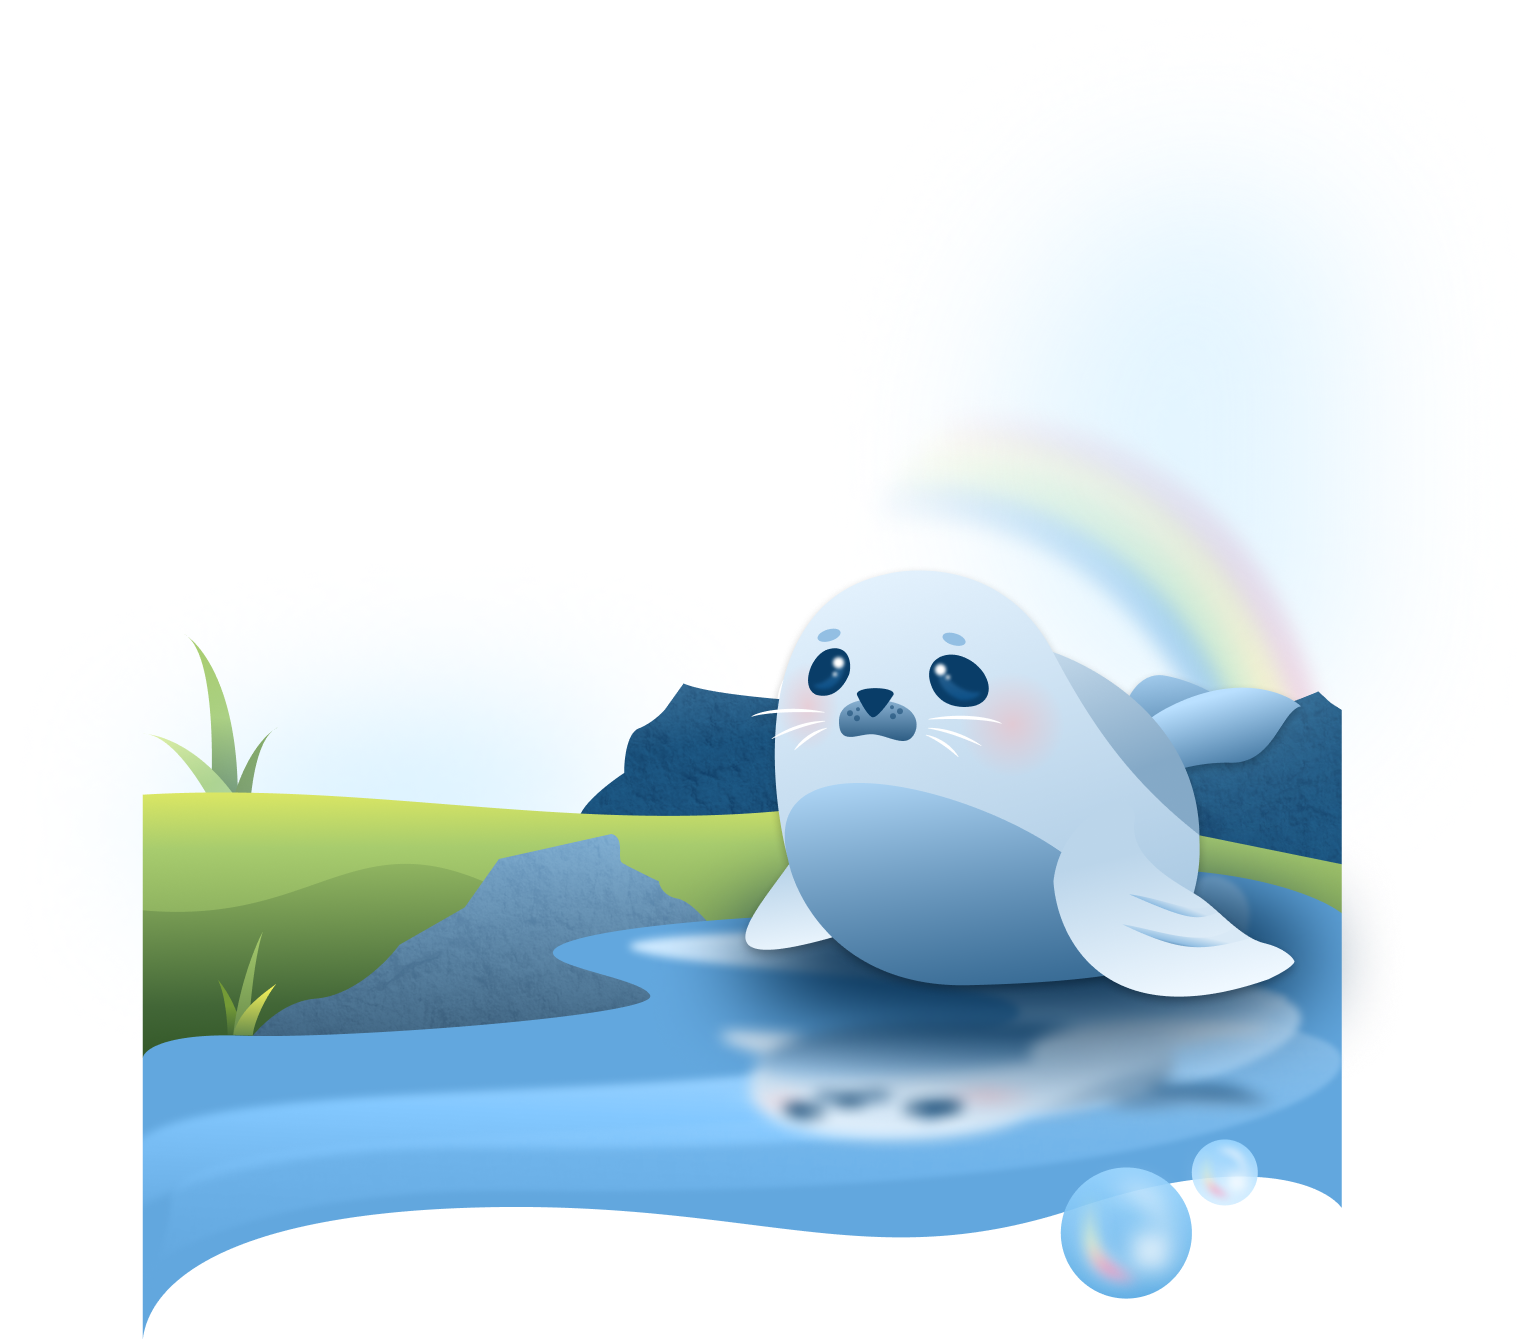
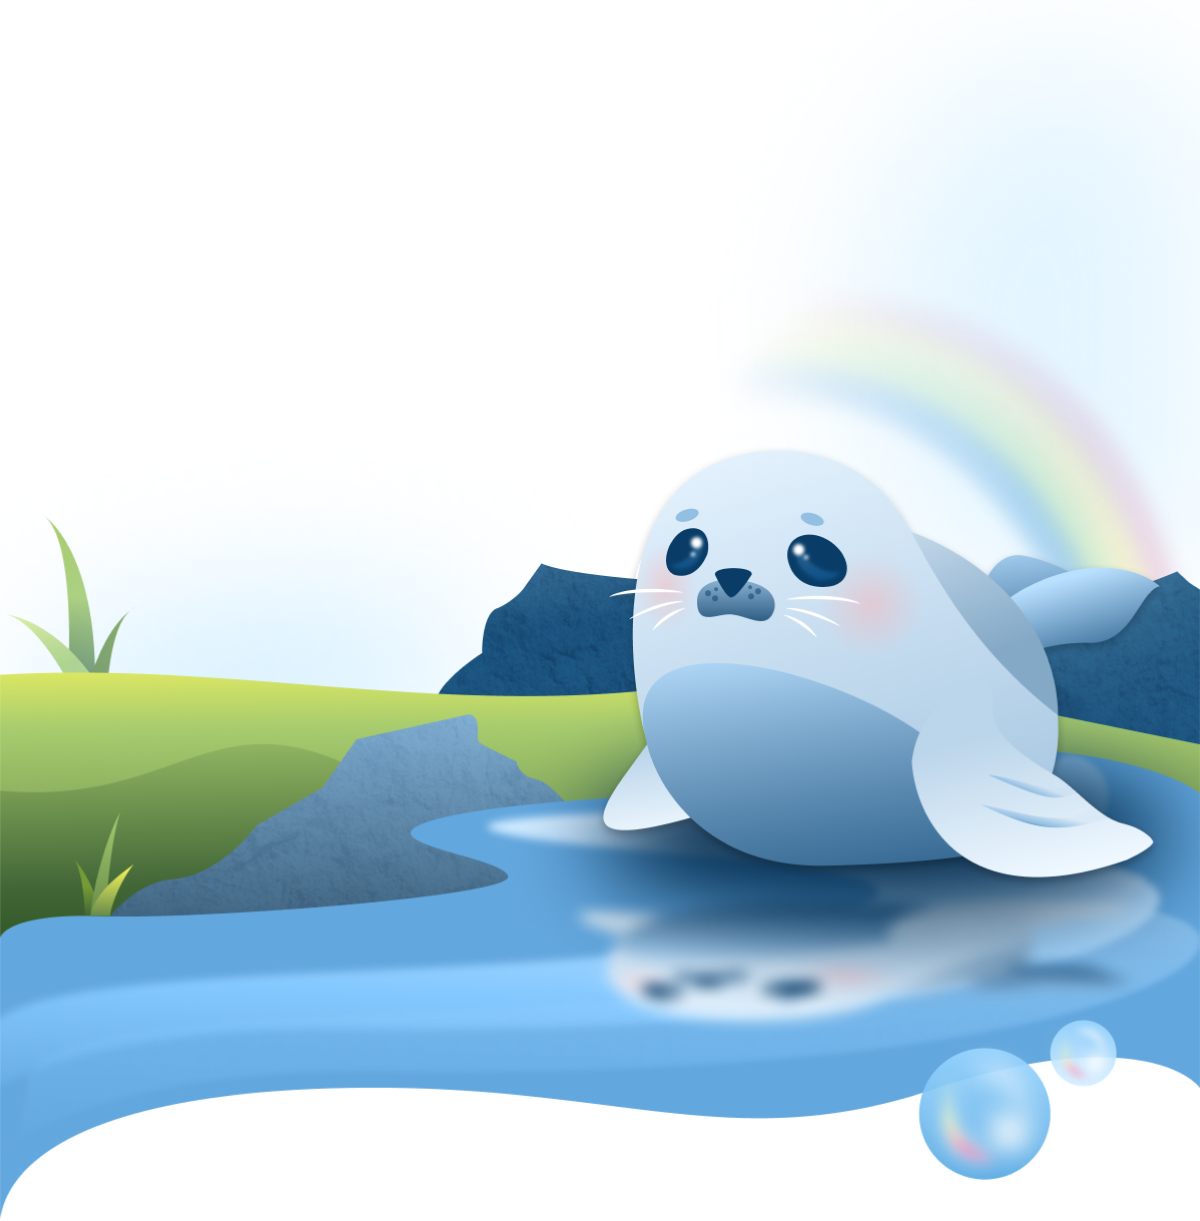
photo

diff --git a/index.html b/index.html
@@ -31,7 +31,7 @@
       nav {
         text-align: center;
         max-width: 1200px;
-        padding: 50px 0px;
+        padding: 30px 0px;
         margin: 0 auto;
       }
 
@@ -71,13 +71,11 @@
       
       .background-water {
         position: absolute;
-        width: 1200px;
-        top: 1750px;
-        left: 120;
-        right: 120;
+        top: 1900px;
 }
       .background-water img{
-        max-width: 1200px;
+        width: 100%;
+        height: auto;
       }
 
       .intro {
@@ -86,8 +84,7 @@
 
       .intro img {
         width: 100%;
-        width: 1200px;
-        text-align: center;
+        height: auto;
       }
 
       .intro-text {
@@ -100,16 +97,15 @@
       .about-preview {
         position: relative;
         margin: 0 auto;
-        margin-left: 120px;
       }
       
       .about-preview img {
         position: absolute;
-        right: 170px;
+        right: 130px;
       }
       
       .about-preview p {
-        max-width: 420px;
+        max-width: 520px;
       }
       
       .why-seals h1{
@@ -139,7 +135,7 @@
     </nav>
     <div class="container">
       <div class="intro">
-        <img src="photos/header.png" alt="Seal in a mini lake, surrounded by rocks and grass">
+        <img src="photos/intro-header.png" alt="Seal in a mini lake, surrounded by rocks and grass">
         <div class="intro-text">
           <h1>
             Splashing in to say Hi,
